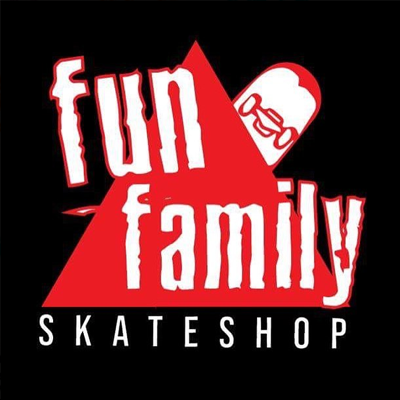
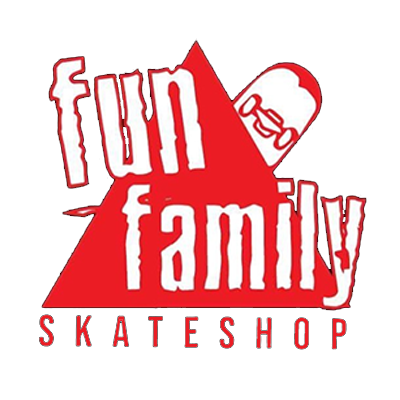
funfamily

diff --git a/index.html b/index.html
@@ -431,7 +431,7 @@
                                                            <a href="https://www.urgh.com/" target="_blank"><img src="images/clients/patrocinio-urgh.png" alt="Urgh"></a>
                                                        </div>
                                                        <div class="client">
-                                                        <a href="" target="_blank"><img src="images/clients/patrocinio.png" alt=""></a>
+                                                        <a href="https://www.instagram.com/funfamilyskateshop/" target="_blank"><img src="images/clients/patrocinio-funfamily.png" alt="Fun Family Skateshop"></a>
                                                        </div>
                                                    </div>
                                                </div>
